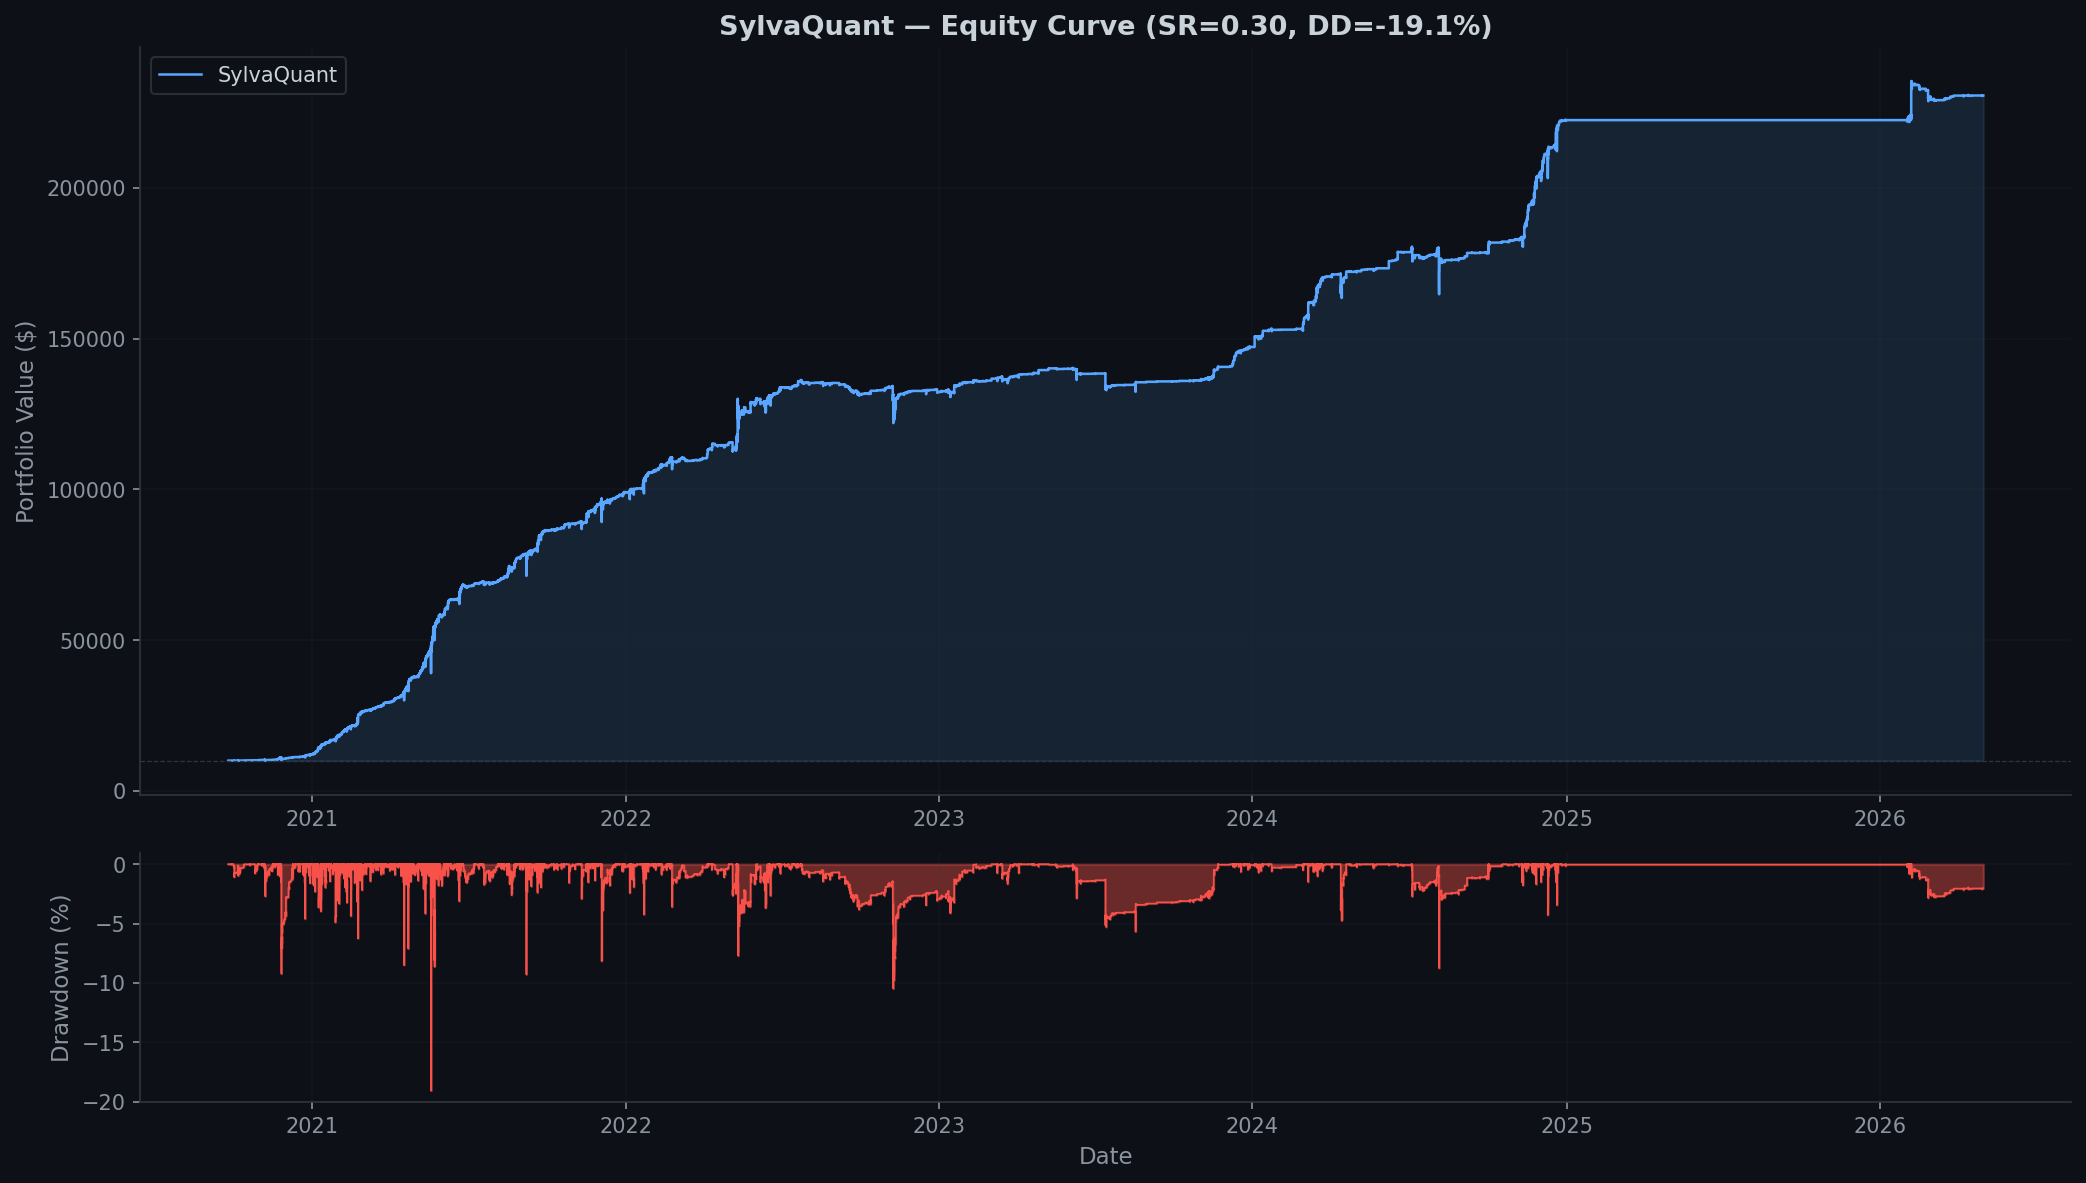
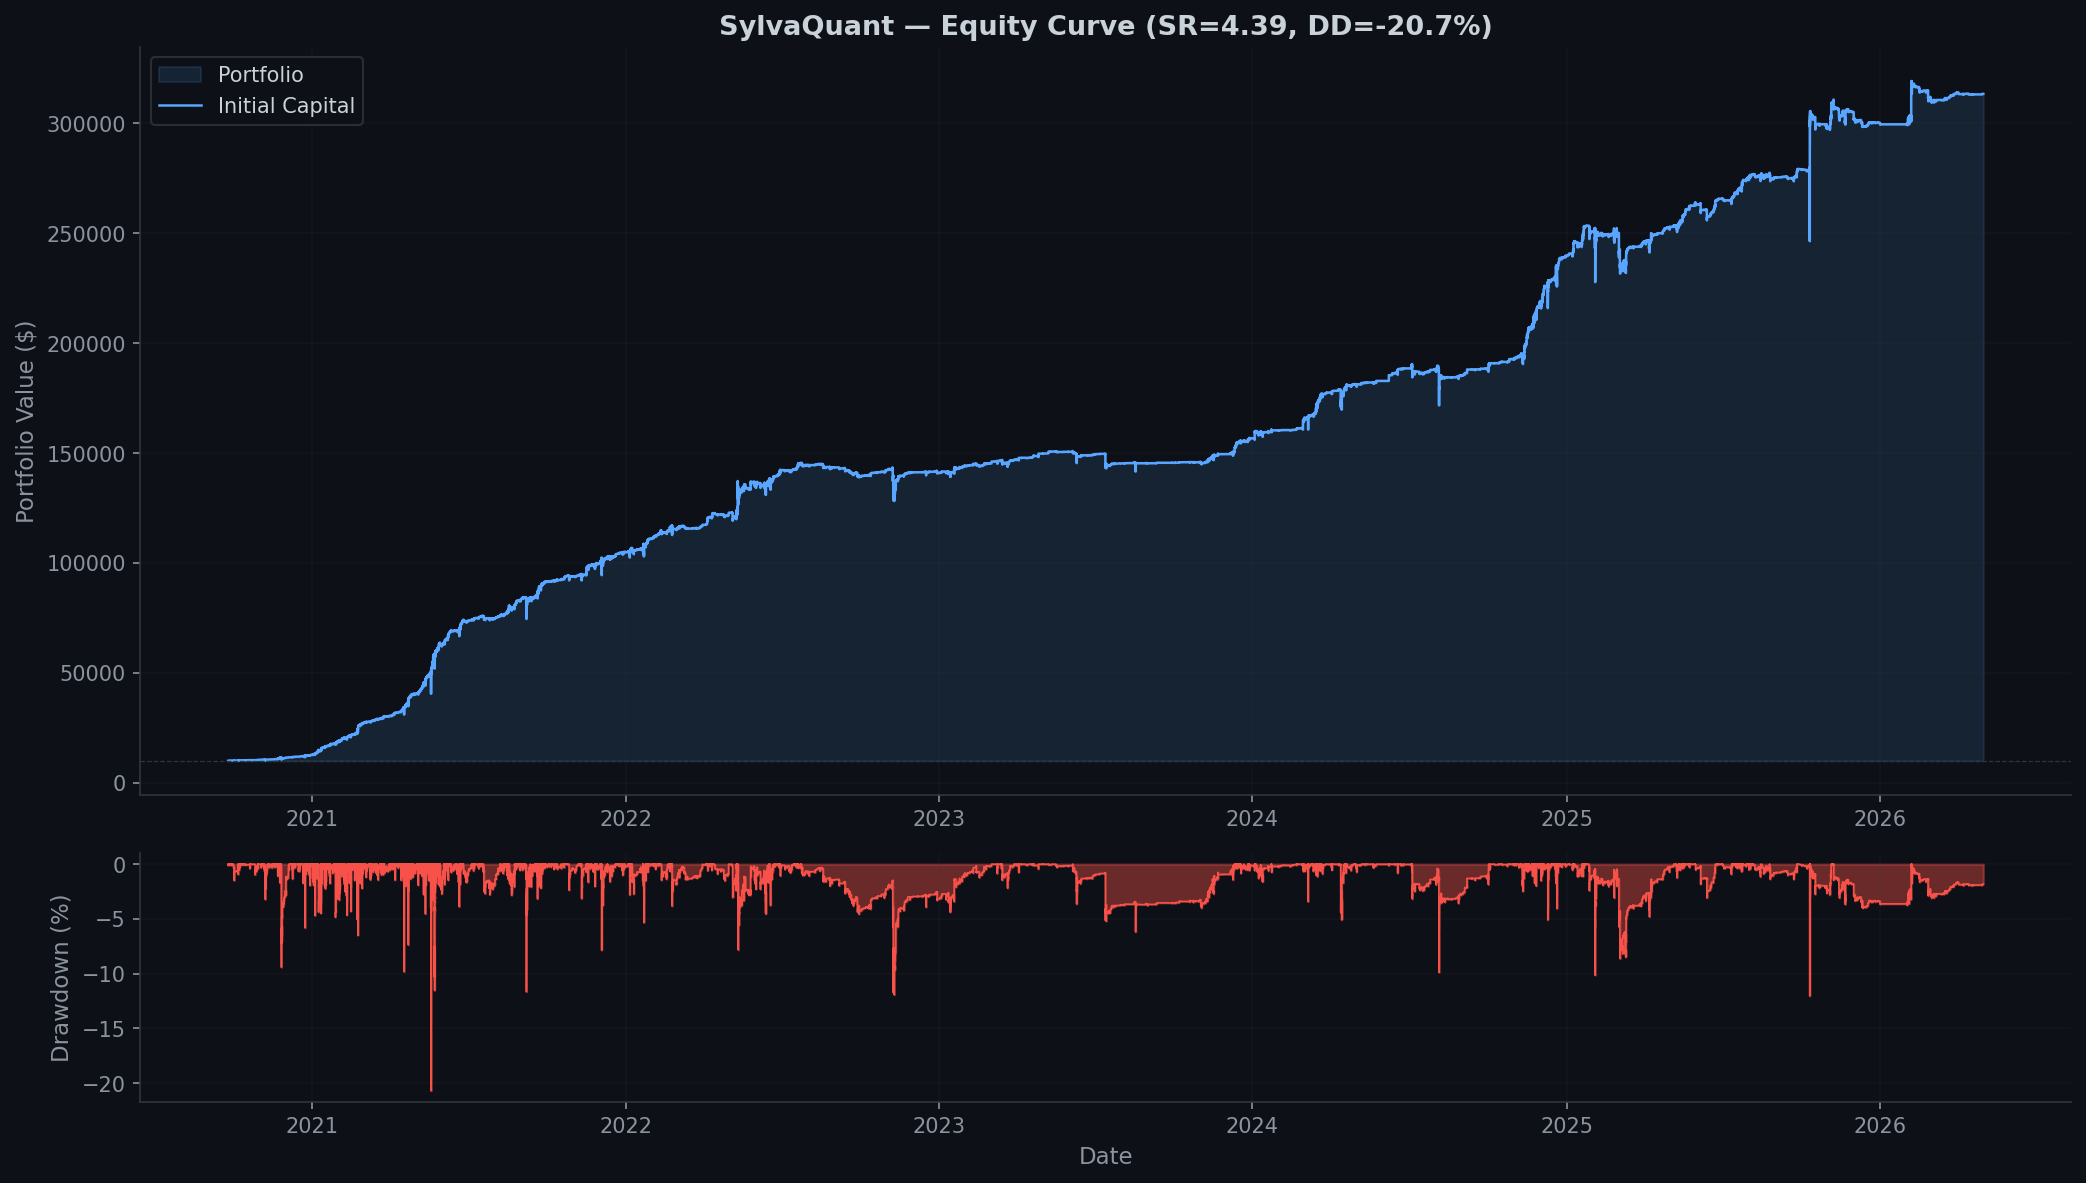
fix: update results with complete 2025 data
2025 data was missing due to μs timestamp + CSV header issues in load_binance.
Now all coins have 35K 2025 bars. Retrained CPCV, re-optimized TH.

Results: 13K (+3,034%), SR_day=4.39, DD=-20.7%
All years profitable (2020-2026).
Notably: equity curve no longer flat in 2025.

diff --git a/src/pipeline_cpcv.py b/src/pipeline_cpcv.py
@@ -46,8 +46,8 @@ RF_LEAF = 50
 
 # Per-coin optimal thresholds (optimized via CPCV OOS signals)
 TH_MAP = {
-    'BTCUSDT': 0.13, 'ETHUSDT': 0.10, 'SOLUSDT': 0.11, 'BNBUSDT': 0.19,
-    'ADAUSDT': 0.11, 'XRPUSDT': 0.13, 'DOGEUSDT': 0.18, 'DOTUSDT': 0.13, 'AVAXUSDT': 0.11,
+    'BTCUSDT': 0.10, 'ETHUSDT': 0.10, 'SOLUSDT': 0.10, 'BNBUSDT': 0.19,
+    'ADAUSDT': 0.06, 'XRPUSDT': 0.13, 'DOGEUSDT': 0.18, 'DOTUSDT': 0.14, 'AVAXUSDT': 0.10,
 }
 
 # ═══════════════════════════════════════════════════════════════

diff --git a/README.md b/README.md
@@ -8,11 +8,11 @@ Multi-coin portfolio strategy using Random Forest + Triple Barrier labels on 15m
 
 | Metric | Value |
 |--------|:-----:|
-| Final equity ($10K →) | **$231K** (+2,210%) |
-| Sharpe ratio (daily) | **5.32** |
-| Max drawdown | -19.1% |
-| Annual return | +492% |
-
+| Final equity ($10K →) | **$313K** (+3,034%) |
+| Sharpe ratio (daily) | **4.39** |
+| Max drawdown | -20.7% |
+| Period | 6.3 years (2020–2026) |
+| Annual return | +553% |
 ![Equity curve](equity_curve.png)
 
 ## How it works
